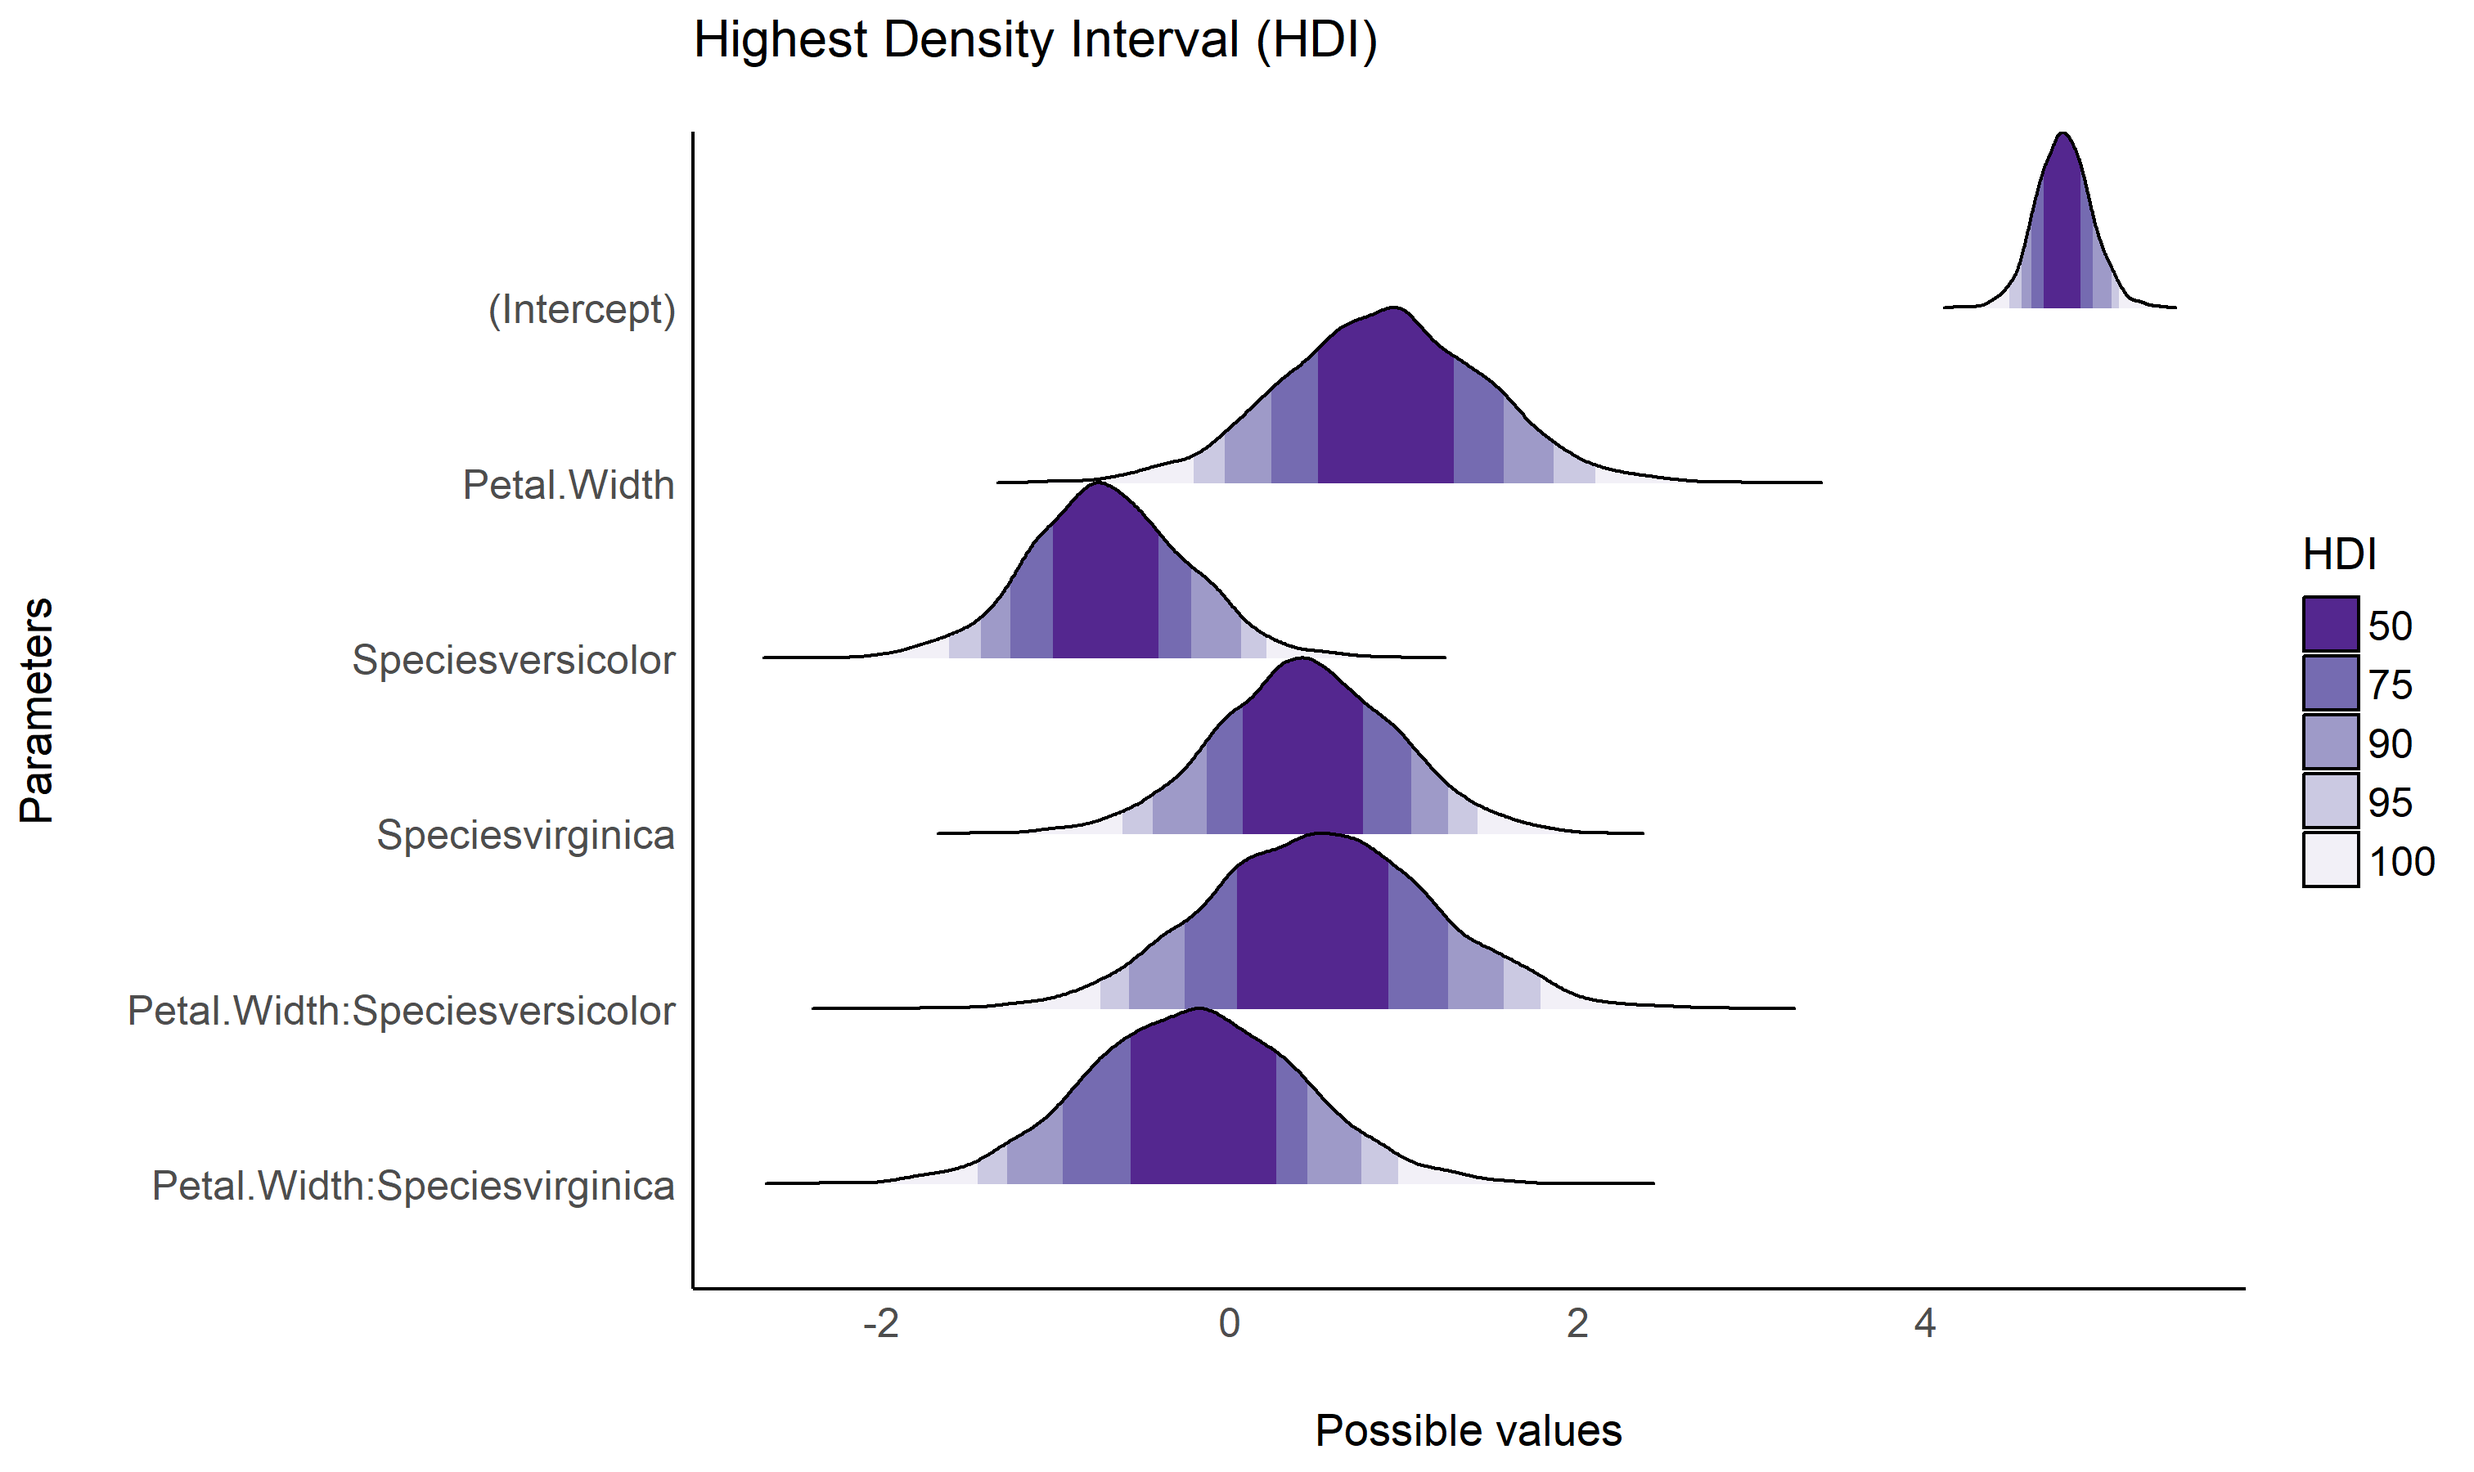
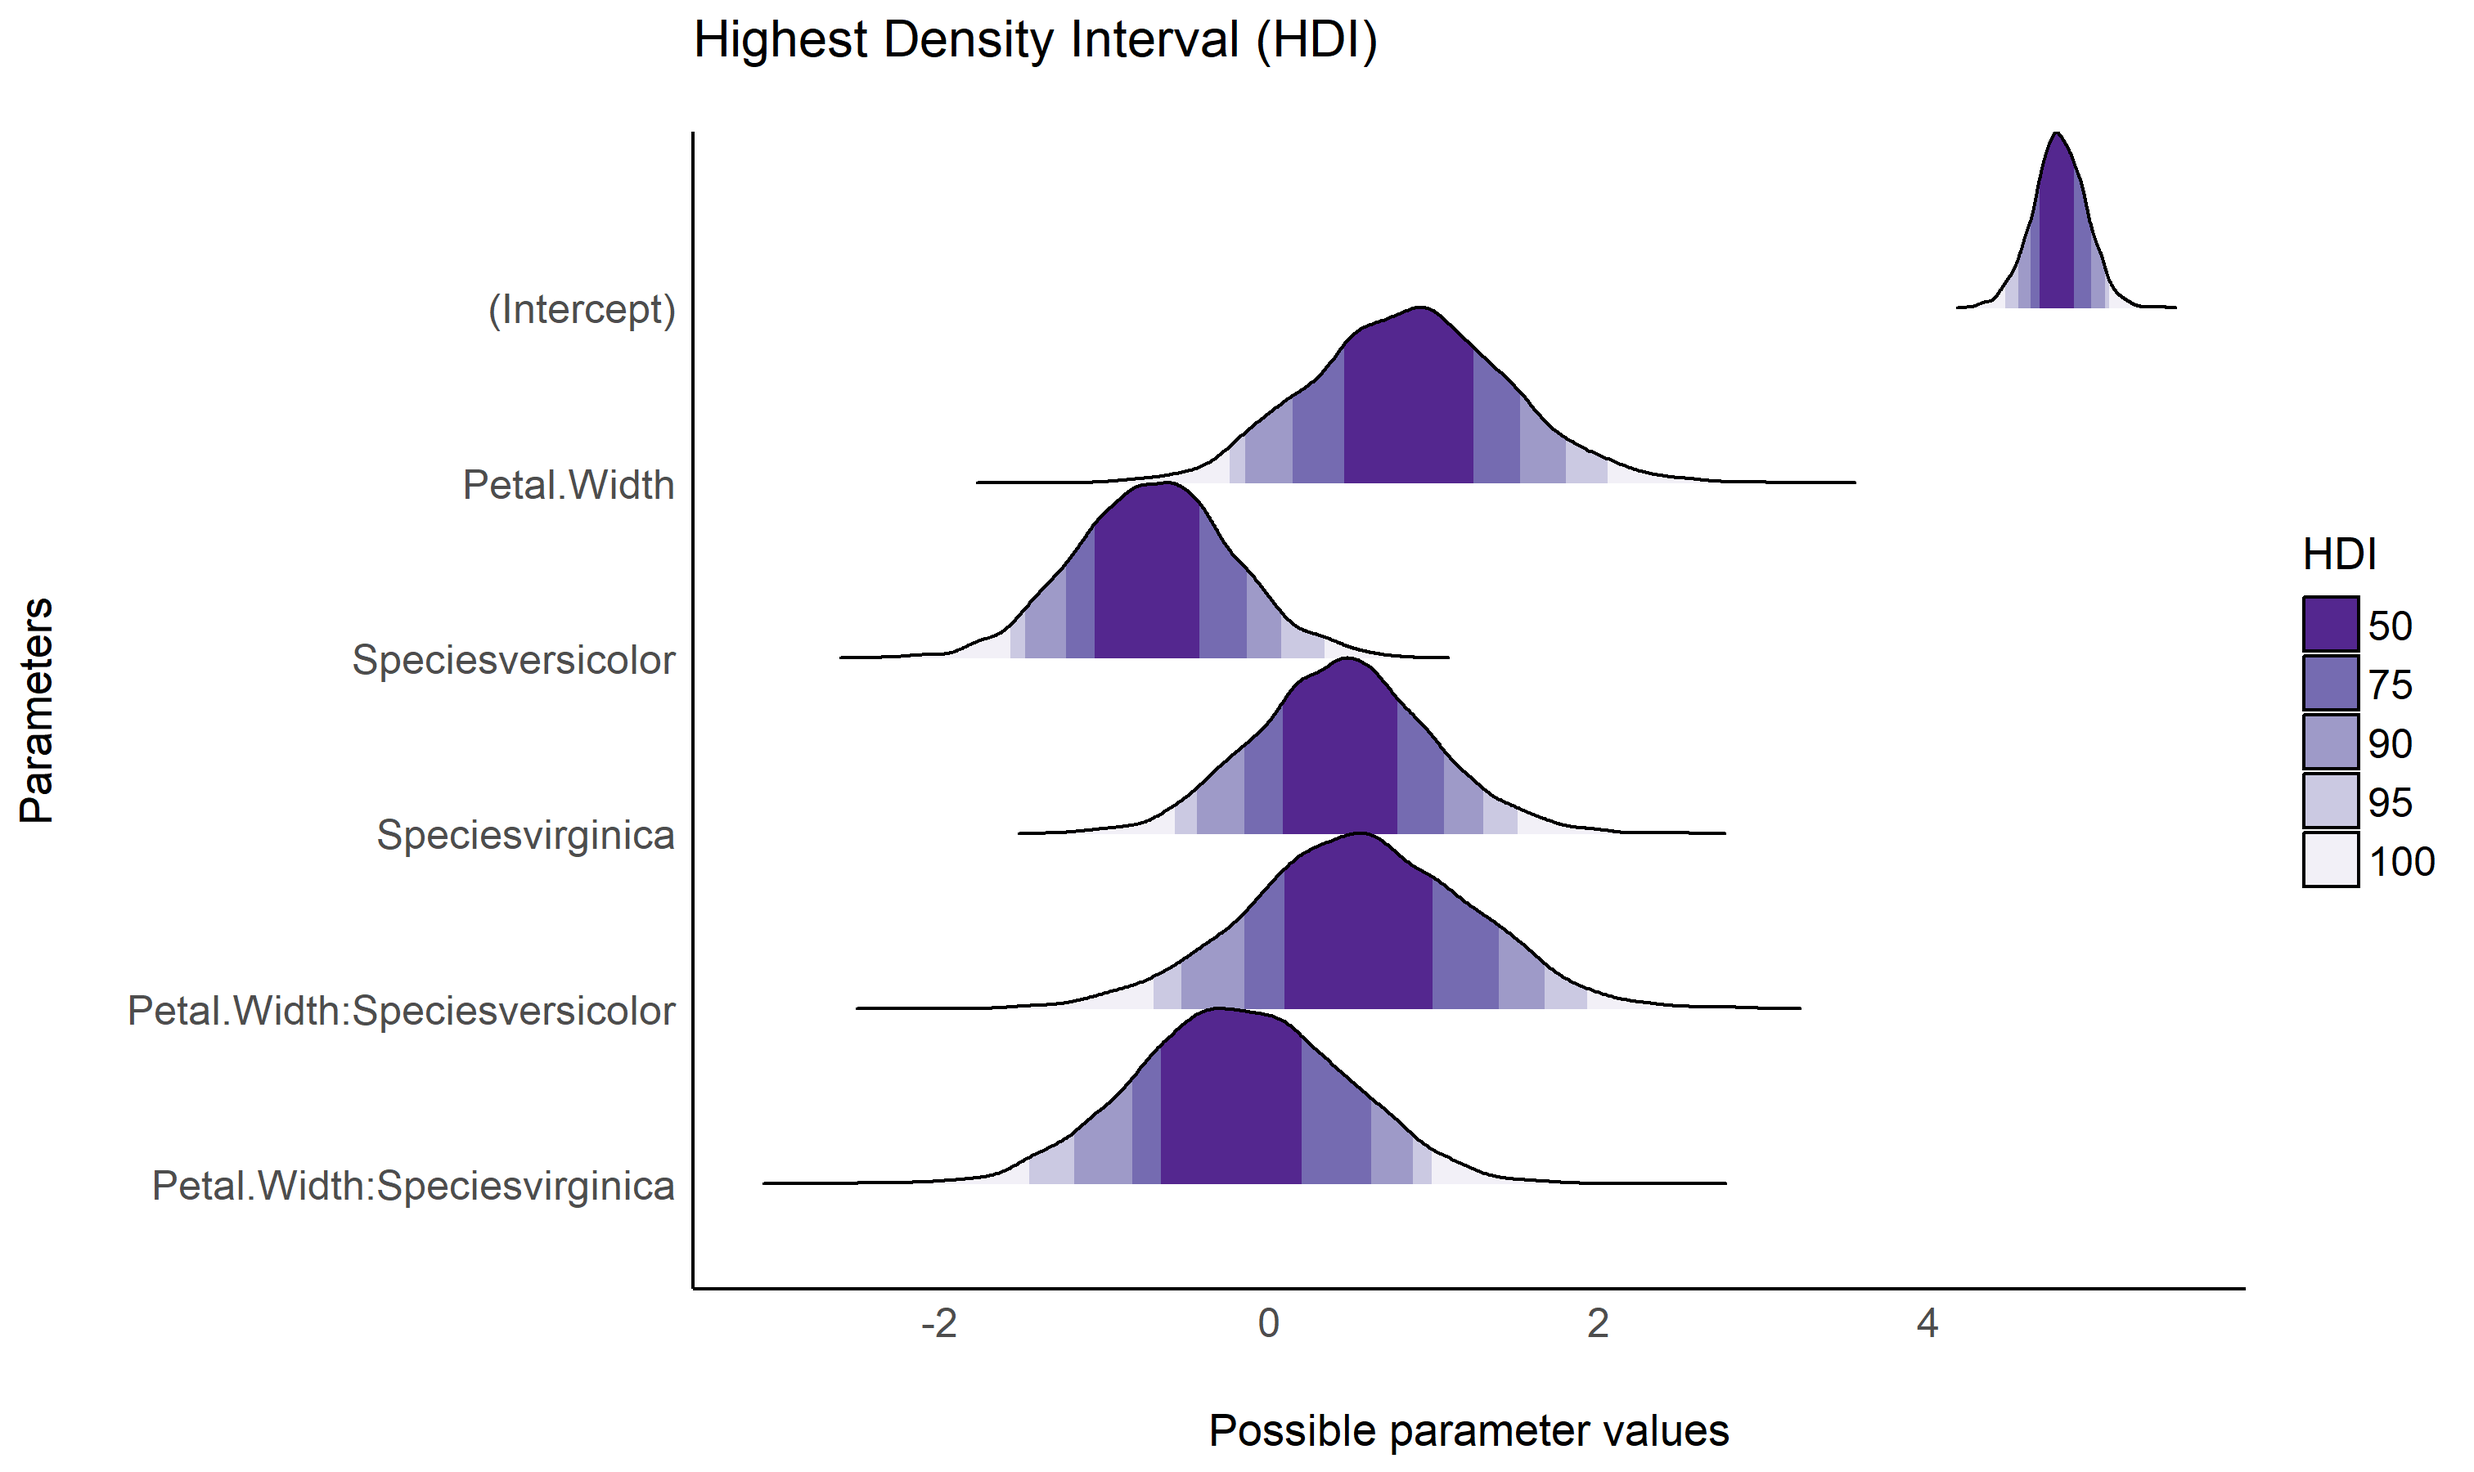
partial ROPE support (issue with models)

diff --git a/README.md b/README.md
@@ -109,7 +109,7 @@ ggplot(iris, aes(x = Species, y = Sepal.Length, fill = Species)) +
 
 ### BayestestR support
 
-#### Probability of Direction (pd)
+#### Highest Density Interval (HDI)
 
 ``` r
 library(rstanarm)
@@ -125,6 +125,8 @@ plot(result) + theme_modern() + scale_fill_brewer(palette = "Purples",
 
 ![](man/figures/unnamed-chunk-11-1.png)<!-- -->
 
+#### Probability of Direction (pd)
+
 ``` r
 model <- rstanarm::stan_glm(Sepal.Length ~ Petal.Width * Species, 
     data = iris)
@@ -135,3 +137,17 @@ plot(result) + theme_modern() + scale_fill_manual(values = c("red",
 ```
 
 ![](man/figures/unnamed-chunk-13-1.png)<!-- -->
+
+#### Region of Practical Equivalence
+
+``` r
+# model <- rstanarm::stan_glm(Sepal.Length ~ Petal.Width *
+# Species, data=iris)
+data <- rnorm(5000, 1, 0.5)
+result <- rope(data, ci = c(0.5, 0.75, 0.9, 0.95))
+
+plot(result, data = data, rope_color = "red") + theme_modern() + 
+    scale_fill_brewer(palette = "Greens", direction = -1)
+```
+
+![](man/figures/unnamed-chunk-15-1.png)<!-- -->
